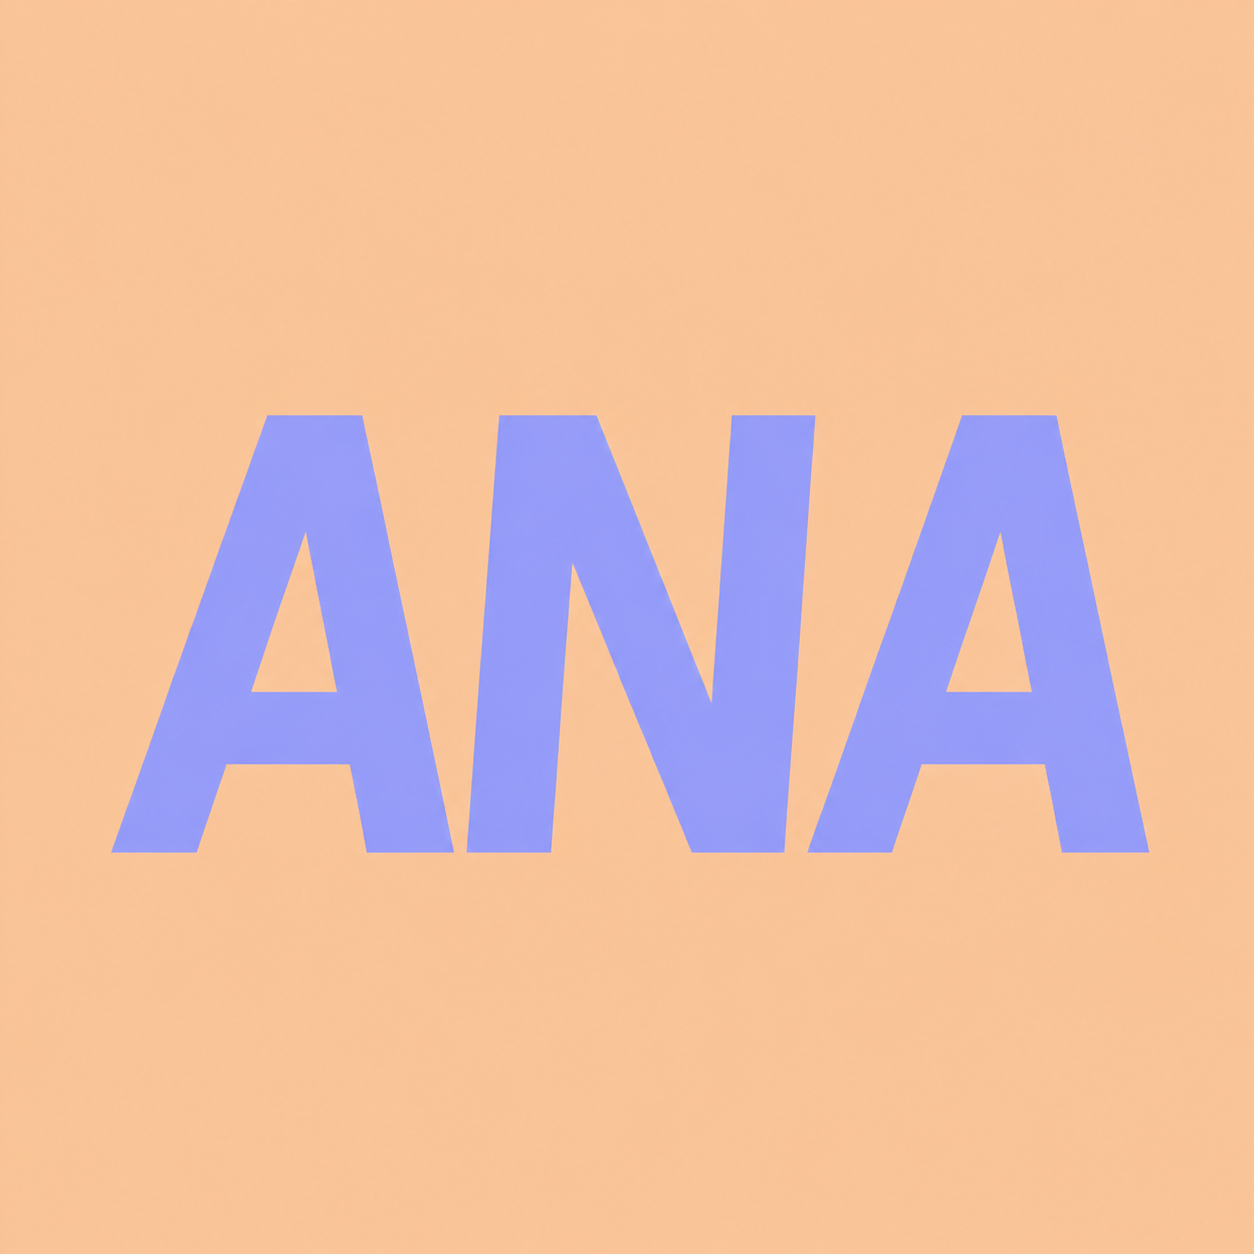
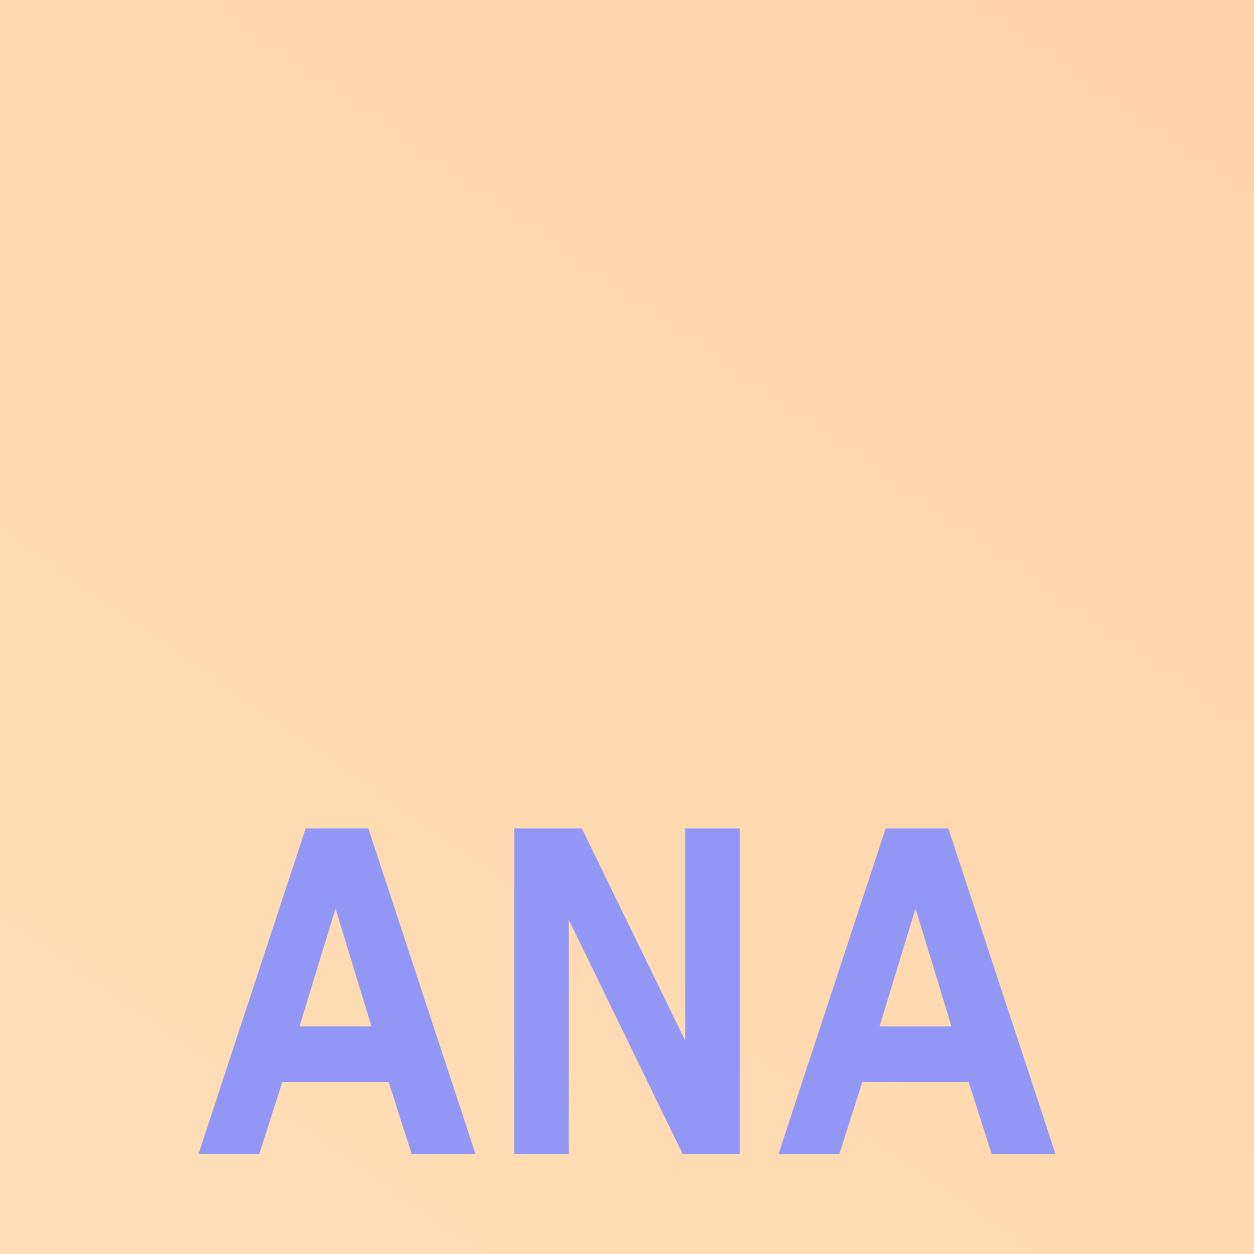
empty

diff --git a/source/IosHostMain.cpp b/source/IosHostMain.cpp
@@ -20,7 +20,7 @@ public:
 class AnaIosHostApplication final : public juce::JUCEApplication
 {
 public:
-    const juce::String getApplicationName() override { return "ana"; }
+    const juce::String getApplicationName() override { return "ANA"; }
     const juce::String getApplicationVersion() override { return ProjectInfo::versionString; }
     bool moreThanOneInstanceAllowed() override { return true; }
 
